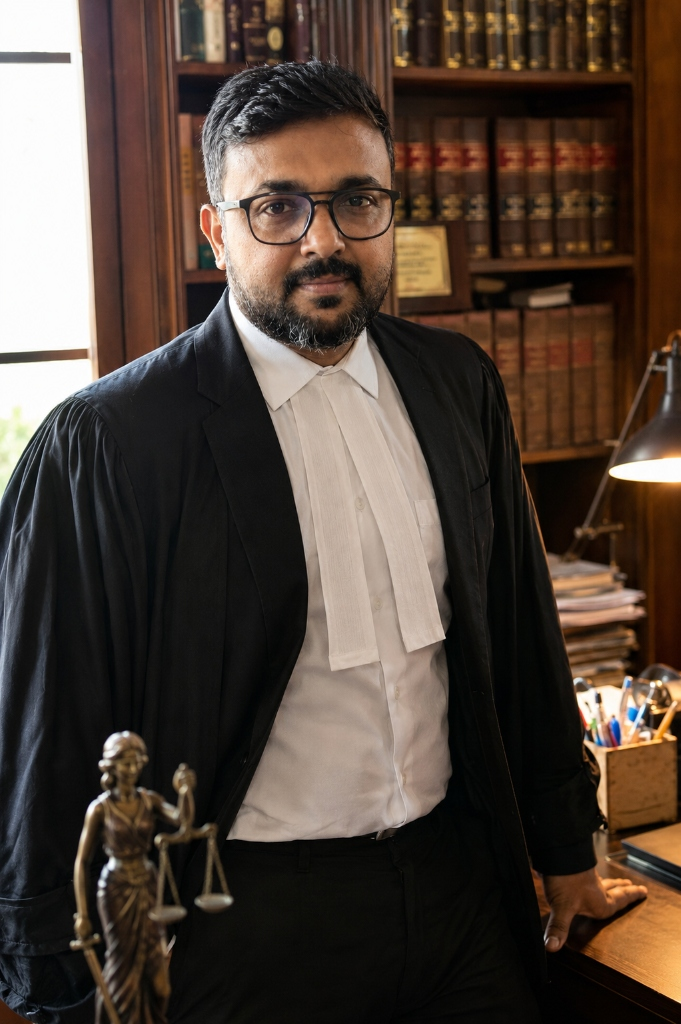
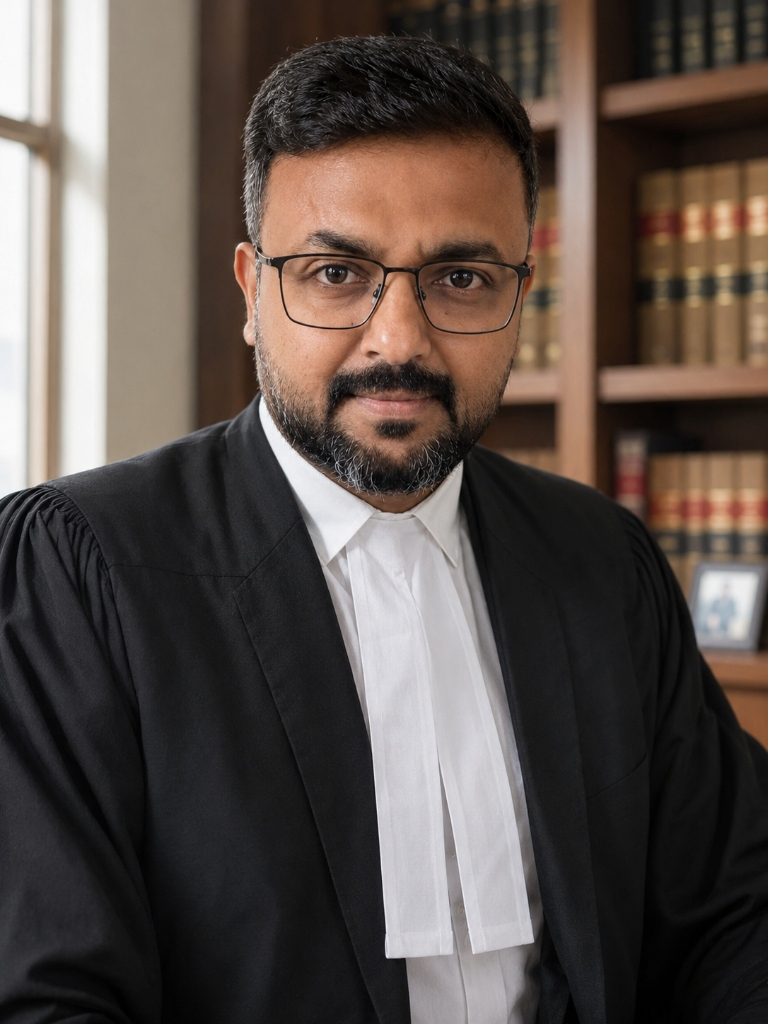
Update Meet Your Advocate section with new introduction and advocate image

diff --git a/src/components/home/SeniorCounsel.tsx b/src/components/home/SeniorCounsel.tsx
@@ -1,0 +1,177 @@
+"use client";
+import Image from "next/image";
+import { FadeUp, SectionHeading } from "@/components/Motion";
+import {
+  Scale,
+  Landmark,
+  Phone,
+  Mail,
+  Award,
+  BookOpen,
+  Gavel,
+  Shield,
+  Building2,
+  FileText,
+  Users,
+  Globe,
+  ChevronRight,
+} from "lucide-react";
+
+const expertiseAreas = [
+  { icon: Scale, label: "Constitutional Law" },
+  { icon: FileText, label: "Writ Petitions (Art. 226 & 227)" },
+  { icon: Gavel, label: "Civil Litigation" },
+  { icon: Shield, label: "Criminal Litigation" },
+  { icon: Landmark, label: "Land Acquisition & Compensation" },
+  { icon: Building2, label: "Property, Revenue & Land Laws" },
+  { icon: BookOpen, label: "Registration & Stamp Laws" },
+  { icon: Users, label: "Service Law" },
+  { icon: Globe, label: "Commercial & Contractual Disputes" },
+  { icon: Scale, label: "Arbitration & ADR" },
+  { icon: FileText, label: "Appeals, Revisions & Second Appeals" },
+  { icon: Landmark, label: "Government Litigation" },
+  { icon: BookOpen, label: "Legal Opinions & Due Diligence" },
+];
+
+export default function SeniorCounsel() {
+  return (
+    <section className="py-20 lg:py-28 bg-white relative overflow-hidden">
+      {/* Subtle background accent */}
+      <div
+        className="absolute top-0 right-0 w-1/2 h-full opacity-[0.02] pointer-events-none"
+        style={{
+          backgroundImage:
+            "radial-gradient(circle at 70% 50%, #0a0a0a 0%, transparent 70%)",
+        }}
+      />
+
+      <div className="max-w-7xl mx-auto px-6">
+        <SectionHeading
+          label="Senior Counsel"
+          title="Distinguished Legal Leadership"
+          description="Backed by decades of High Court advocacy and government representation."
+        />
+
+        <div className="grid lg:grid-cols-2 gap-12 lg:gap-20 items-start mt-12">
+          {/* Image */}
+          <FadeUp>
+            <div className="relative">
+              <div className="absolute -inset-4 bg-gradient-to-br from-navy/5 to-gray-200/30 rounded-2xl rotate-1" />
+              <div className="relative rounded-2xl overflow-hidden shadow-2xl">
+                <Image
+                  src="/senior-counsel.jpg"
+                  alt="Ram Prasad Teegala - Senior Counsel, High Court of Telangana"
+                  width={700}
+                  height={500}
+                  className="w-full h-auto object-cover"
+                  priority
+                />
+                {/* Overlay gradient */}
+                <div className="absolute inset-0 bg-gradient-to-t from-navy/40 via-transparent to-transparent" />
+                {/* Badge */}
+                <div className="absolute bottom-4 left-4 bg-white/95 backdrop-blur-sm px-5 py-3 rounded-xl shadow-lg">
+                  <div className="flex items-center gap-2">
+                    <Landmark className="w-5 h-5 text-navy" />
+                    <div>
+                      <p className="text-navy font-bold text-sm">
+                        High Court Advocate
+                      </p>
+                      <p className="text-xs text-gray-500">
+                        Former Government Pleader
+                      </p>
+                    </div>
+                  </div>
+                </div>
+              </div>
+            </div>
+          </FadeUp>
+
+          {/* Content */}
+          <FadeUp delay={0.2}>
+            <div>
+              {/* Name & Title */}
+              <div className="mb-6">
+                <div className="flex items-center gap-3 mb-2">
+                  <Award className="w-6 h-6 text-navy" />
+                  <span className="text-xs font-semibold uppercase tracking-[0.2em] text-navy/60">
+                    Senior Counsel
+                  </span>
+                </div>
+                <h3 className="font-heading text-3xl md:text-4xl font-bold text-navy mb-1">
+                  Ram Prasad Teegala
+                </h3>
+                <p className="text-gray-500 font-semibold text-sm">
+                  Advocate, High Court for the State of Telangana
+                </p>
+                <p className="text-navy/60 text-sm mt-1">
+                  Former Government Pleader
+                </p>
+              </div>
+
+              {/* Bio */}
+              <div className="space-y-4 text-gray-600 leading-relaxed text-sm mb-8">
+                <p>
+                  With over two decades of distinguished legal practice, Ram
+                  Prasad Teegala is an Advocate practising before the High Court
+                  for the State of Telangana. He has served as Government
+                  Pleader for the Departments of Revenue (Stamps &
+                  Registration), Finance, Information Technology, Planning, and
+                  Law & Legislative Affairs, representing the Government in
+                  significant constitutional, civil, revenue, and administrative
+                  matters.
+                </p>
+                <p>
+                  His practice is founded on legal excellence, meticulous
+                  preparation, and effective courtroom advocacy. He regularly
+                  represents individuals, institutions, corporate entities, and
+                  government bodies before the High Court, District Courts,
+                  Tribunals, and other judicial forums.
+                </p>
+              </div>
+
+              {/* Contact */}
+              <div className="flex flex-wrap gap-4 mb-8">
+                <a
+                  href="tel:+919032866666"
+                  className="inline-flex items-center gap-2 px-5 py-3 bg-navy text-white text-sm font-semibold rounded-lg hover:bg-navy-light transition-all shadow-lg shadow-navy/25 hover:-translate-y-0.5"
+                >
+                  <Phone className="w-4 h-4" />
+                  +91 9032866666
+                </a>
+                <a
+                  href="mailto:[email redacted]"
+                  className="inline-flex items-center gap-2 px-5 py-3 border-2 border-navy text-navy text-sm font-semibold rounded-lg hover:bg-navy hover:text-white transition-all"
+                >
+                  <Mail className="w-4 h-4" />
+                  Email
+                </a>
+              </div>
+            </div>
+          </FadeUp>
+        </div>
+
+        {/* Areas of Expertise */}
+        <FadeUp delay={0.3}>
+          <div className="mt-16">
+            <h4 className="font-heading text-xl font-bold text-navy mb-6 text-center">
+              Areas of Expertise
+            </h4>
+            <div className="grid grid-cols-2 md:grid-cols-3 lg:grid-cols-4 gap-3">
+              {expertiseAreas.map(({ icon: Icon, label }, i) => (
+                <div
+                  key={i}
+                  className="flex items-center gap-3 p-4 rounded-xl bg-light border border-gray-100 hover:border-navy/20 hover:shadow-sm transition-all duration-300 group"
+                >
+                  <Icon className="w-4 h-4 text-navy/60 group-hover:text-navy shrink-0 transition-colors" />
+                  <span className="text-sm text-gray-700 font-medium">
+                    {label}
+                  </span>
+                </div>
+              ))}
+            </div>
+          </div>
+        </FadeUp>
+      </div>
+    </section>
+  );
+}

diff --git a/src/app/about/page.tsx b/src/app/about/page.tsx
@@ -18,8 +18,11 @@ export default function AboutPage() {
         <div className="max-w-7xl mx-auto px-6 text-center relative">
           <FadeUp>
             <span className="inline-block px-4 py-1.5 bg-white/10 text-white text-xs font-semibold uppercase tracking-[0.2em] rounded-full mb-4">About Us</span>
-            <h1 className="font-heading text-4xl md:text-5xl lg:text-6xl font-bold text-white mb-4">Meet Your Advocate</h1>
-            <p className="text-white/60 text-lg max-w-2xl mx-auto">Dedicated to protecting your rights with strategic legal representation and genuine client care.</p>
+            <h1 className="font-heading text-4xl md:text-5xl lg:text-6xl font-bold text-white mb-2">Meet Your Advocate</h1>
+            <p className="font-heading text-xl md:text-2xl font-semibold text-white/80 mb-2">V. Vamshi Krishna</p>
+            <p className="text-white/60 text-base mb-1">Founder &amp; Managing Partner</p>
+            <p className="text-white/50 text-base mb-4">D.S.P. Law Associates</p>
+            <p className="text-white/70 text-lg max-w-2xl mx-auto italic">&ldquo;Justice begins with trust, and every successful legal journey begins with the right advocate.&rdquo;</p>
           </FadeUp>
         </div>
       </section>
@@ -37,13 +40,22 @@ export default function AboutPage() {
 
             <FadeUp delay={0.2}>
               <h2 className="font-heading text-3xl md:text-4xl font-bold text-navy mb-2">{siteConfig.attorney}</h2>
-              <p className="text-gray-500 font-semibold mb-2">Founder & Managing Partner — {siteConfig.name}</p>
-              <p className="text-sm text-gray-400 mb-6">Head – Customer Finance | EV & Mobility | Banking & NBFC Ecosystem Leader</p>
+              <p className="text-gray-500 font-semibold mb-6">Founder &amp; Managing Partner — {siteConfig.name}</p>
 
               <div className="space-y-4 text-gray-600 leading-relaxed mb-8">
-                <p>V. Vamshi Krishnaa is a distinguished advocate and dynamic finance professional with nearly 20 years of progressive experience across finance, law, and business strategy. Holding a Bachelor of Laws (LLB) from Osmania University along with advanced degrees in Psychology and Business Administration, he combines legal acumen with deep business expertise.</p>
-                <p>As the founder of D.S.P Law Associates, Advocate Vamshi Krishnaa established the firm to provide personalized, high-quality legal representation for individuals and businesses. His approach combines meticulous preparation with aggressive advocacy, drawing on extensive experience in corporate finance, regulatory compliance, and strategic leadership.</p>
-                <p>With a career spanning leadership roles at Tata Motors Finance, Axis Bank, Mahindra & Mahindra, and Blue Energy Motors, he brings a unique cross-functional perspective to legal practice—understanding both the legal and commercial dimensions of every matter.</p>
+                <p>V. Vamshi Krishna, Founder &amp; Managing Partner of D.S.P. Law Associates, is a distinguished legal professional with nearly 20 years of diverse experience in law, finance, corporate governance, and strategic leadership. His unique multidisciplinary background enables him to provide clients with practical, commercially sound, and legally robust solutions.</p>
+                <p>He holds a Bachelor of Laws (LL.B.) from Osmania University, complemented by an MBA and an M.Sc., reflecting his commitment to continuous learning and professional excellence. His extensive experience across the corporate and legal sectors equips him with a comprehensive understanding of complex legal, commercial, and regulatory matters.</p>
+                <p>At D.S.P. Law Associates, we are committed to delivering exceptional legal services with integrity, professionalism, and unwavering dedication. We recognize that every legal issue is unique, and every client deserves individual attention, strategic guidance, and honest legal advice.</p>
+                <p>Our practice offers comprehensive legal services across civil litigation, criminal law, family and matrimonial disputes, property and real estate matters, corporate and commercial law, banking and finance, consumer disputes, contract drafting, legal documentation, arbitration, mediation, and legal advisory services. Every matter is approached with meticulous preparation, strategic thinking, and a relentless pursuit of justice.</p>
+                <p>We believe that legal representation extends beyond court appearances. It is about understanding our clients&apos; concerns, protecting their rights, minimizing legal risks, and achieving the most effective and practical outcomes. From the initial consultation to the final resolution, we maintain complete transparency, timely communication, and a client-first approach.</p>
+                <p>Our vision is to build a law firm recognized for excellence, ethical practice, and client confidence. We strive to create lasting relationships based on trust, reliability, and measurable results, ensuring that every client feels supported throughout their legal journey.</p>
+                <p>Whether you are an individual seeking justice, a family requiring legal protection, or a business looking for trusted legal counsel, D.S.P. Law Associates stands ready to represent your interests with dedication, discretion, and determination.</p>
+              </div>
+
+              {/* Tagline */}
+              <div className="bg-navy/5 rounded-xl p-6 mb-8 border-l-4 border-navy">
+                <p className="font-heading text-lg font-bold text-navy">Your Rights. Our Responsibility.</p>
+                <p className="font-heading text-lg font-bold text-navy">Your Success. Our Commitment.</p>
               </div>
 
               {/* Education */}

diff --git a/src/components/home/AboutPreview.tsx b/src/components/home/AboutPreview.tsx
@@ -21,7 +21,7 @@ export default function AboutPreview() {
             <div className="relative">
               <div className="absolute -inset-4 bg-gradient-to-br from-navy/5 to-gray-200/30 rounded-2xl rotate-2" />
               <div className="relative rounded-2xl overflow-hidden shadow-xl">
-                <Image src="/attorney-casual.jpg" alt="V. Vamshi Krishnaa - D.S.P Law Associates" width={600} height={700} className="w-full h-auto object-cover" />
+                <Image src="/advocate-meet.jpg" alt="V. Vamshi Krishnaa - D.S.P Law Associates" width={600} height={700} className="w-full h-auto object-cover" />
               </div>
               <div className="absolute -bottom-6 -right-6 bg-navy text-white px-8 py-4 rounded-xl shadow-xl">
                 <p className="font-heading text-2xl font-bold">500+</p>
@@ -35,14 +35,20 @@ export default function AboutPreview() {
             <span className="inline-block px-4 py-1.5 bg-navy/10 text-navy text-xs font-semibold uppercase tracking-[0.2em] rounded-full mb-4">
               About The Firm
             </span>
-            <h2 className="font-heading text-3xl md:text-4xl lg:text-5xl font-bold text-navy leading-tight mb-6">
+            <h2 className="font-heading text-3xl md:text-4xl lg:text-5xl font-bold text-navy leading-tight mb-2">
               Meet Your Advocate
             </h2>
+            <p className="font-heading text-xl md:text-2xl font-semibold text-navy/80 mb-2">V. Vamshi Krishna</p>
+            <p className="text-sm text-gray-500 font-semibold mb-1">Founder &amp; Managing Partner</p>
+            <p className="text-sm text-gray-400 mb-4">D.S.P. Law Associates</p>
+            <p className="text-navy/70 italic leading-relaxed mb-4 border-l-4 border-navy/20 pl-4">
+              &ldquo;Justice begins with trust, and every successful legal journey begins with the right advocate.&rdquo;
+            </p>
             <p className="text-gray-600 leading-relaxed mb-4">
-              V. Vamshi Krishnaa is a seasoned advocate with nearly 20 years of progressive experience in finance, law, and strategic leadership. Holding a Bachelor of Laws (LLB) from Osmania University alongside MBA and M.Sc. degrees, he combines deep legal knowledge with exceptional business acumen.
+              V. Vamshi Krishna is a distinguished legal professional with nearly 20 years of diverse experience in law, finance, corporate governance, and strategic leadership. His unique multidisciplinary background enables him to provide clients with practical, commercially sound, and legally robust solutions.
             </p>
             <p className="text-gray-600 leading-relaxed mb-8">
-              At D.S.P Law Associates, we believe every client deserves personalized attention and a clear path forward. Whether you&apos;re facing a complex business transaction, a family crisis, or a criminal charge, we fight to protect what matters most to you.
+              At D.S.P. Law Associates, we are committed to delivering exceptional legal services with integrity, professionalism, and unwavering dedication. Every client deserves individual attention, strategic guidance, and honest legal advice.
             </p>
 
             {/* Credentials */}

diff --git a/src/app/page.tsx b/src/app/page.tsx
@@ -1,5 +1,6 @@
 import Hero from "@/components/home/Hero";
 import AboutPreview from "@/components/home/AboutPreview";
+import SeniorCounsel from "@/components/home/SeniorCounsel";
 import PracticeAreasGrid from "@/components/home/PracticeAreasGrid";
 import WhyChooseUs from "@/components/home/WhyChooseUs";
 import CaseResultsStats from "@/components/home/CaseResultsStats";
@@ -16,6 +17,7 @@ export default function HomePage() {
     <>
       <Hero />
       <AboutPreview />
+      <SeniorCounsel />
       <PracticeAreasGrid />
       <WhyChooseUs />
       <SubscriptionPlans />